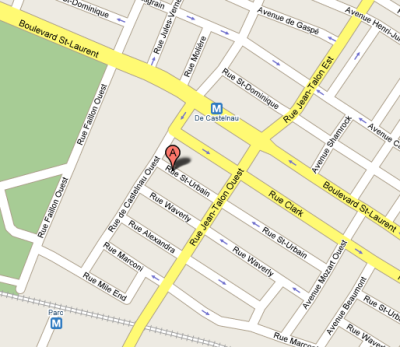
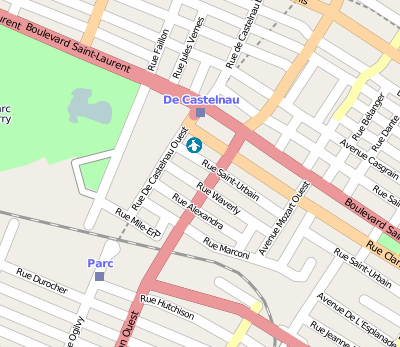
Modification des cartes

diff --git a/www/contact.php b/www/contact.php
@@ -28,7 +28,7 @@ include('include/header.php');
                                             <p>Québec (Québec) G1K 6G7 </p>
                                             <p>Tél / Fax : (418) 525-7354 </p> 
                                             <p class="previewGoogle"><a href="http://maps.google.com/maps?f=q&amp;hl=fr&amp;q=151+Slater+Street,+ottawa&amp;ie=UTF8&amp;z=15&amp;ll=45.420684,-75.701895&amp;spn=0.013706,0.043259&amp;om=1&amp;iwloc=addr" title="Opens external link in new window" target="_blank" class="external-link-new-window" >
-                                            <img src="img/mtl.png" width="400" height="347" class="perso" alt="" /></a>
+                                            <img src="img/qc.png" width="400" height="347" class="perso" alt="" /></a>
                                             </p>
 										</td >
                                     </tr> 
@@ -40,7 +40,7 @@ include('include/header.php');
                                             <p>Ottawa, ON, K1P 5H3</p>
                                             <p>Tél / Fax : 613-688-8081 </p>
                                             <p class="previewGoogle"><a href="http://maps.google.com/maps?f=q&amp;hl=fr&amp;q=151+Slater+Street,+ottawa&amp;ie=UTF8&amp;z=15&amp;ll=45.420684,-75.701895&amp;spn=0.013706,0.043259&amp;om=1&amp;iwloc=addr" title="Opens external link in new window" target="_blank" class="external-link-new-window" >
-                                            <img src="img/mtl.png" width="400" height="347" class="perso" alt="" /></a>
+                                            <img src="img/ott.png" width="400" height="347" class="perso" alt="" /></a>
                                             </p>
                                     	</td>
                                     </tr> 
